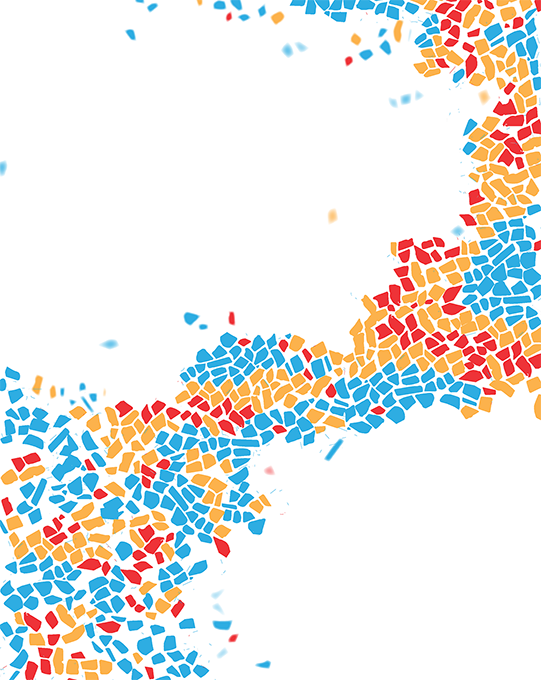
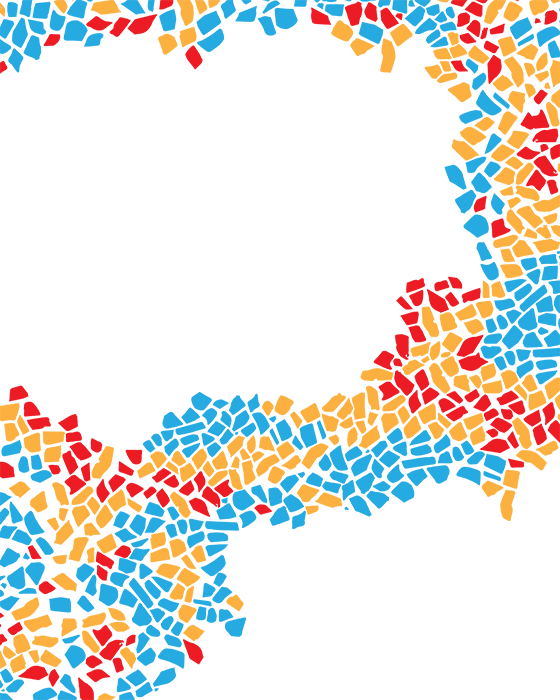
updating home

diff --git a/css/main.css b/css/main.css
@@ -199,7 +199,9 @@ a.headshot-link {
 @media screen and (max-width:430px){
 
 body {
-	background: white;
+	background-color: white;
+	background-image: url(../img/home/about-panel.png);
+	background-repeat: no-repeat;
 	width: 100%;
 }
 
@@ -235,6 +237,20 @@ a.logo > img {
 	display: none;
 }
 
+div.home-container > .sm-link {
+	display: none;
+}
+
+div.home-panel {
+	height: auto;
+	margin: -5% 0 10%;
+}
+
+div.main-container {
+	position: static;
+	background: transparent;
+}
+
 div.welcome {
 	margin: 0;
 	display: block;
@@ -244,13 +260,6 @@ div.welcome {
 div.welcome > h1,
 div.welcome > p {
 	display: none;
-}
-
-ul.home-navigation {
-	margin: 0;
-	display: block;
-	padding: 0;
-	width: 100%;
 }
 
 li.home-li {
@@ -272,20 +281,7 @@ a.home-link:hover {
 	text-decoration: none;
 }
 
-div.home-container > .sm-link {
-	display: none;
-}
-
-div.main-container {
-	position: static;
-}
-
-div.home-panel,
-div.main-container {
-	height: auto;
-}
-
 a.headshot-link {
-	
+	display: none;
 }
 }
